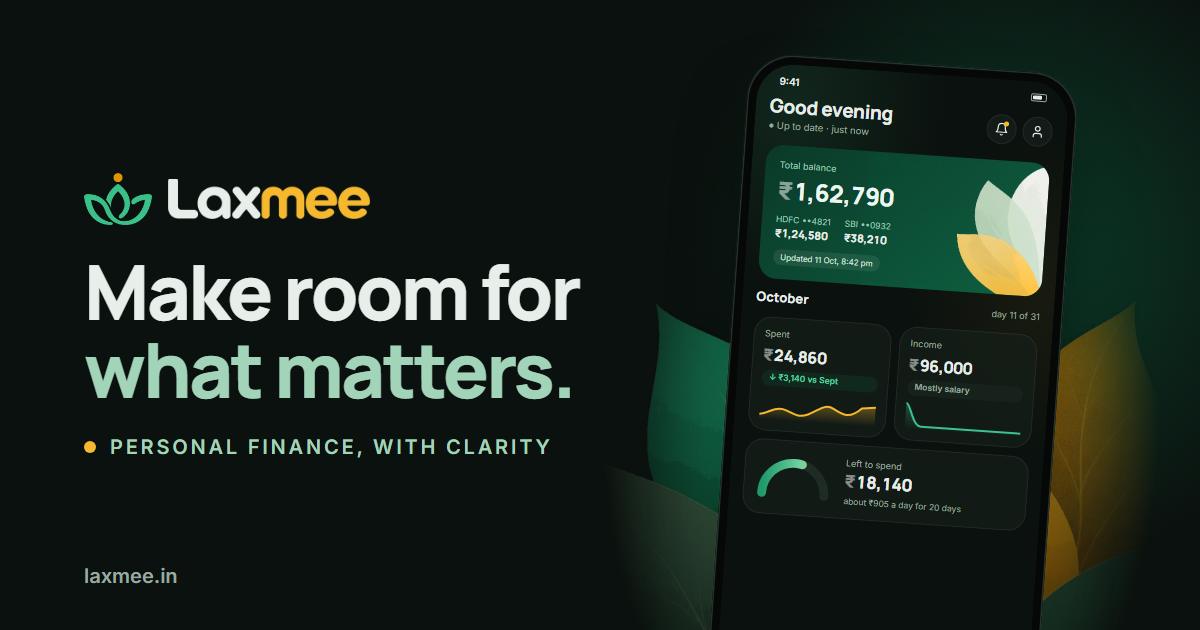
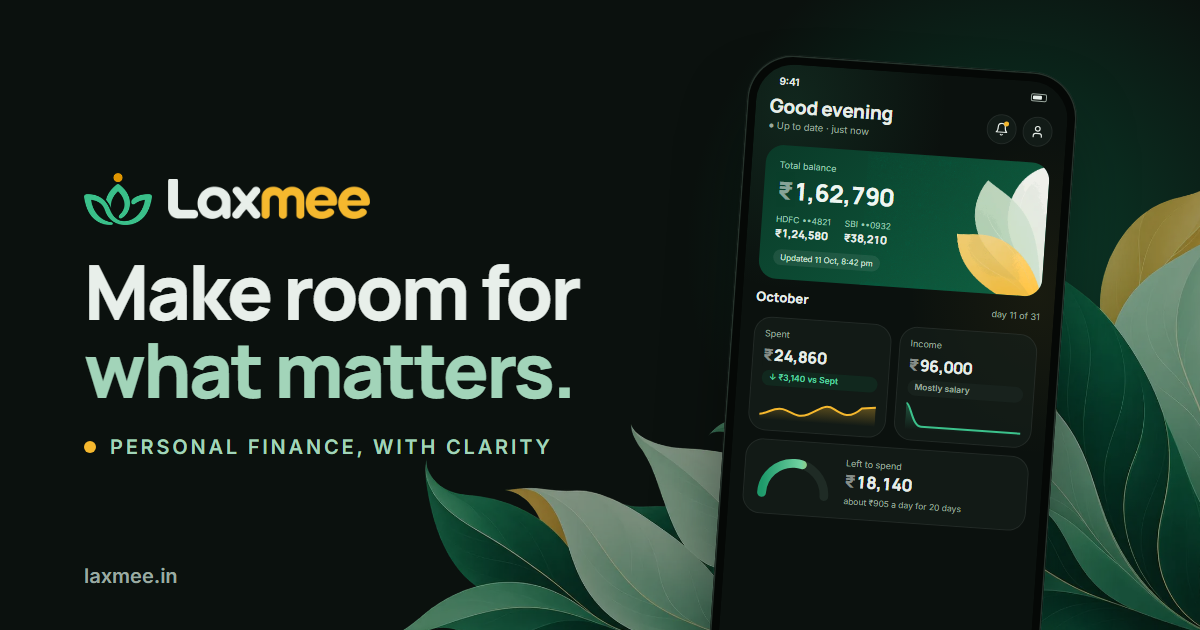
Website: new art (wide leaves in the hero and share image, How it works illustrations)

Changed region(s): [[0.8633, 0.3016, 1.0, 1.0], [0.3392, 0.4825, 0.6167, 1.0]]

diff --git a/assets/site.css b/assets/site.css
@@ -124,9 +124,12 @@ p { margin: 0; }
 .hero-note { font-size: 14px; color: var(--ink-2); display: flex; align-items: center; gap: 10px; }
 .hero-note svg { width: 16px; height: 16px; color: var(--mint); flex: none; }
 .hero-art { position: relative; display: flex; justify-content: center; padding-block: 12px 0; }
-.hero-art .leaves { position: absolute; bottom: -90px; left: 50%; width: min(560px, 130%); transform: translateX(-50%); opacity: 0.9; pointer-events: none; -webkit-mask-image: radial-gradient(ellipse 50% 50% at 50% 55%, #000 55%, transparent 100%); mask-image: radial-gradient(ellipse 50% 50% at 50% 55%, #000 55%, transparent 100%); }
+/* The wide leaves rise from the bottom-right corner of the hero, behind the phone. */
+.hero-leaves { position: absolute; right: 0; bottom: 0; width: min(62vw, 1040px); height: auto; opacity: 0.55; pointer-events: none; }
+.hero-grid { z-index: 1; }
 @media (max-width: 900px) {
   .hero-grid { grid-template-columns: 1fr; }
+  .hero-leaves { width: 130vw; right: -15vw; opacity: 0.45; }
   .hero-art { margin-top: 12px; }
 }
 
@@ -200,22 +203,27 @@ p { margin: 0; }
 /* How it works */
 .steps { list-style: none; margin: clamp(40px, 6vw, 72px) 0 0; padding: 0; display: grid; grid-template-columns: repeat(3, minmax(0, 1fr)); gap: clamp(24px, 4vw, 56px); counter-reset: step; }
 .steps li { display: flex; flex-direction: column; gap: 14px; counter-increment: step; position: relative; }
+/* Each step's illustration sits above its number. */
+.steps .art { order: -1; height: 190px; display: flex; align-items: flex-end; margin-bottom: 8px; }
+.steps .art img { max-height: 190px; width: auto; max-width: 100%; }
 .steps li::before {
   content: counter(step); display: inline-flex; align-items: center; justify-content: center;
   width: 44px; height: 44px; border-radius: 50%; background: var(--emerald); color: #fff;
   font: 800 18px/1 var(--display);
 }
 .steps li::after { /* the line joining the steps */
-  content: ""; position: absolute; top: 22px; left: 60px; right: calc(-1 * clamp(24px, 4vw, 56px) + 16px); height: 1px; background: var(--paper-hair);
+  content: ""; position: absolute; top: 234px; left: 60px; right: calc(-1 * clamp(24px, 4vw, 56px) + 16px); height: 1px; background: var(--paper-hair);
 }
 .steps li:last-child::after { display: none; }
 .steps h3 { color: var(--paper-ink); }
 .steps p { color: var(--paper-ink-2); font-size: 16px; }
 @media (max-width: 760px) {
   .steps { grid-template-columns: 1fr; gap: 0; }
-  .steps li { padding: 0 0 32px 64px; }
-  .steps li::before { position: absolute; left: 0; top: 0; }
-  .steps li::after { top: 52px; bottom: 6px; left: 22px; right: auto; width: 1px; height: auto; }
+  .steps li { padding: 0 0 40px 64px; }
+  .steps .art { height: 160px; }
+  .steps .art img { max-height: 160px; }
+  .steps li::before { position: absolute; left: 0; top: 182px; }
+  .steps li::after { top: 234px; bottom: 6px; left: 22px; right: auto; width: 1px; height: auto; }
 }
 
 /* Final CTA */

diff --git a/index.html b/index.html
@@ -112,6 +112,7 @@
 
   <!-- ===================== Hero ===================== -->
   <section class="hero" aria-labelledby="hero-title">
+    <img class="hero-leaves" src="/assets/img/leaves-wide-dark.webp" srcset="/assets/img/leaves-wide-dark-800.webp 800w, /assets/img/leaves-wide-dark.webp 1600w" sizes="(max-width: 900px) 100vw, 62vw" width="1600" height="900" alt="" fetchpriority="low">
     <div class="wrap hero-grid">
       <div class="hero-copy">
         <span class="eyebrow">Personal finance, with clarity</span>
@@ -125,7 +126,6 @@
       </div>
 
       <div class="hero-art">
-        <img class="leaves" src="/assets/img/leaves-dark.webp" width="720" height="1080" alt="" fetchpriority="low">
         <div class="phone lg" role="img" aria-label="The Laxmee Home screen: a total balance of ₹1,62,790 on a green leaf card, October spending of ₹24,860, income of ₹96,000, and ₹18,140 left to spend.">
           <div class="screen" aria-hidden="true">
             <div class="sbar"><span>9:41</span><i></i></div>
@@ -371,9 +371,9 @@
       <span class="eyebrow">How it works</span>
       <h2 id="how-title" style="margin-top:18px;max-width:16em">From your bank's SMS to a clear picture, in three steps.</h2>
       <ol class="steps">
-        <li><h3>Bring your picture together</h3><p>Allow SMS access once. Laxmee reads the transaction alerts your bank already sends and builds your accounts and history, right on your phone.</p></li>
-        <li><h3>See your patterns</h3><p>Spending by category and by day, income, recurring payments and how this month compares with the last.</p></li>
-        <li><h3>Move toward your goals</h3><p>Set budgets and savings goals, keep an eye on what's coming up, and watch your progress fill in.</p></li>
+        <li><span class="art"><img src="/assets/img/step-sms.webp" width="560" height="470" alt="" loading="lazy"></span><h3>Bring your picture together</h3><p>Allow SMS access once. Laxmee reads the transaction alerts your bank already sends and builds your accounts and history, right on your phone.</p></li>
+        <li><span class="art"><img src="/assets/img/step-patterns.webp" width="560" height="373" alt="" loading="lazy"></span><h3>See your patterns</h3><p>Spending by category and by day, income, recurring payments and how this month compares with the last.</p></li>
+        <li><span class="art"><img src="/assets/img/step-goal.webp" width="560" height="512" alt="" loading="lazy"></span><h3>Move toward your goals</h3><p>Set budgets and savings goals, keep an eye on what's coming up, and watch your progress fill in.</p></li>
       </ol>
     </div>
   </section>

diff --git a/og/og.html b/og/og.html
@@ -6,8 +6,7 @@
   body { background: #0B110E; position: relative; }
   .glow { position: absolute; width: 900px; height: 900px; right: -260px; top: -200px; border-radius: 50%;
     background: radial-gradient(closest-side, rgba(11, 122, 82, 0.42), rgba(11, 122, 82, 0) 72%); }
-  .leaves { position: absolute; right: 40px; bottom: -170px; width: 560px; opacity: 0.85;
-    -webkit-mask-image: radial-gradient(ellipse 50% 50% at 50% 55%, #000 55%, transparent 100%); mask-image: radial-gradient(ellipse 50% 50% at 50% 55%, #000 55%, transparent 100%); }
+  .leaves { position: absolute; right: -40px; bottom: -10px; width: 860px; opacity: 0.6; }
   .copy { position: absolute; left: 84px; top: 0; bottom: 0; width: 640px; display: flex; flex-direction: column; justify-content: center; gap: 28px; }
   .brand { display: flex; align-items: center; gap: 16px; }
   .brand .mark { height: 52px; width: auto; }
@@ -50,7 +49,7 @@
   </defs>
 </svg>
 <div class="glow"></div>
-<img class="leaves" src="/assets/img/leaves-dark.webp" alt="">
+<img class="leaves" src="/assets/img/leaves-wide-dark.webp" alt="">
 <div class="copy">
   <div class="brand"><img class="mark" src="/assets/img/lotus-mint.png" alt=""><img class="word" src="/assets/img/wordmark-light.png" alt=""></div>
   <h1>Make room for <span>what matters.</span></h1>
